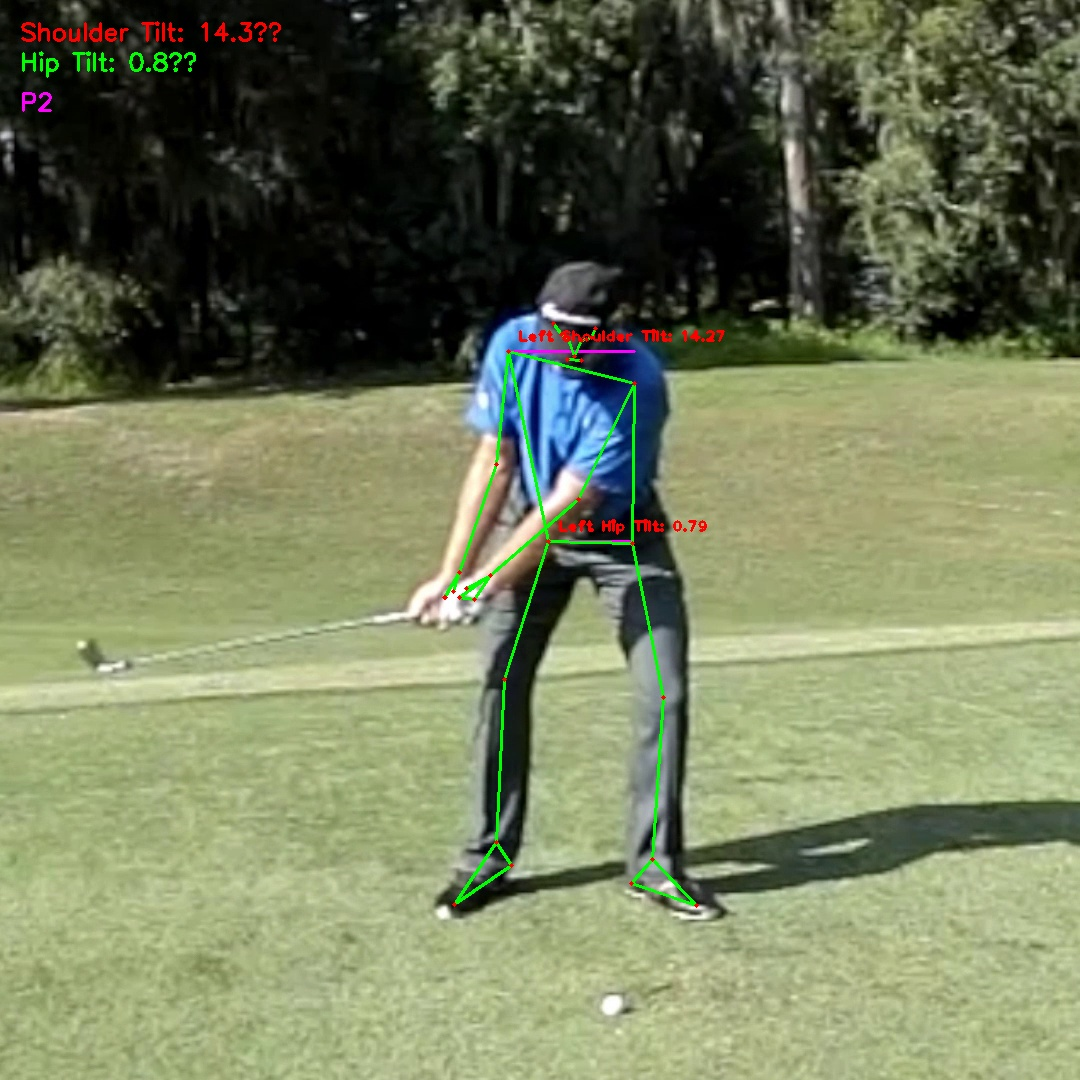
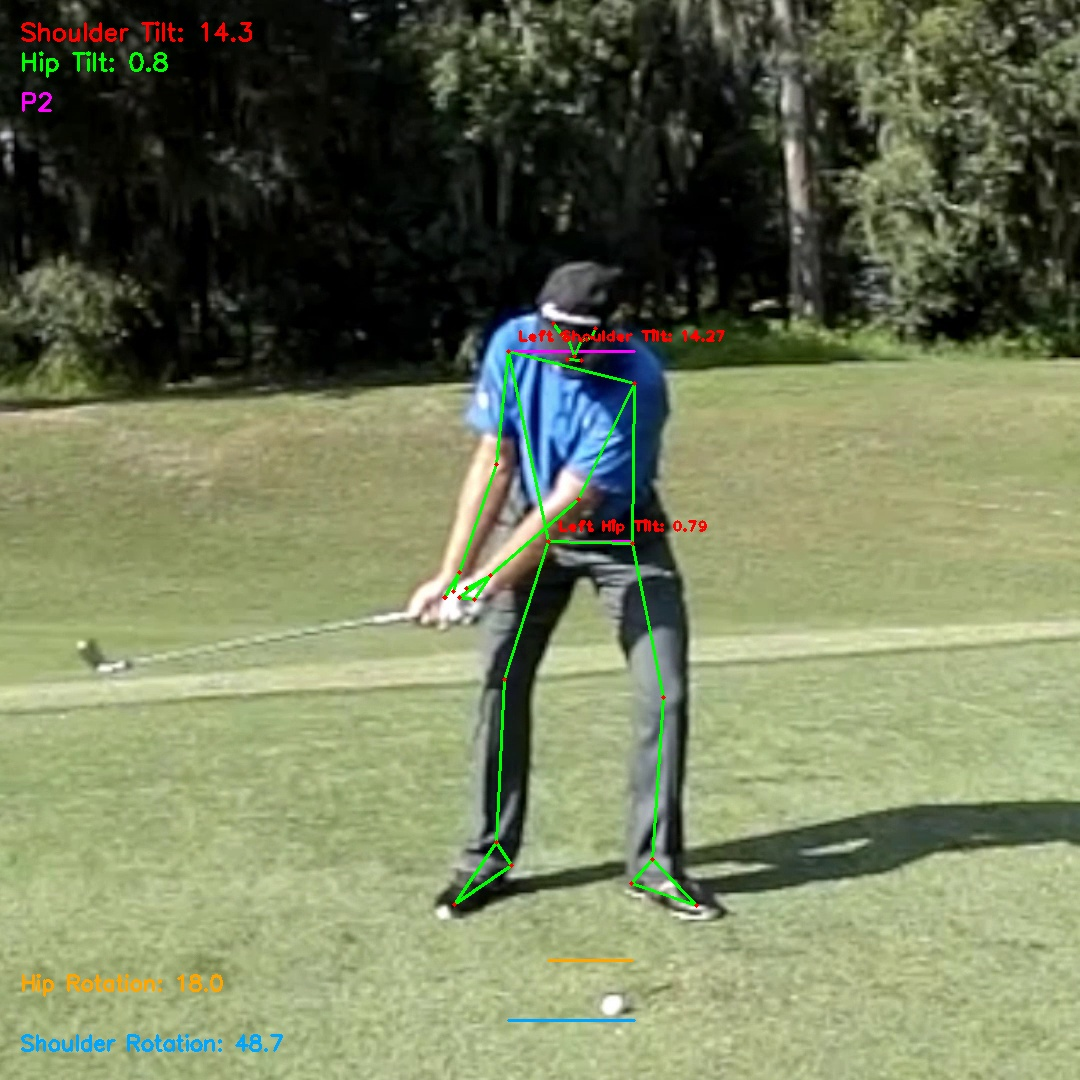
Add rotations

diff --git a/Computer_Vision/Mediapipe/BodyAngleOptimisation/pipeline.py b/Computer_Vision/Mediapipe/BodyAngleOptimisation/pipeline.py
@@ -9,33 +9,10 @@ import mediapipe as mp
 import pandas as pd
 from angle_utils import (
     calculate_and_draw_shoulder_tilt,
-    calculate_and_draw_hip_tilt
+    calculate_and_draw_hip_tilt,
+    calculate_and_draw_shoulder_rotation,
+    calculate_and_draw_hip_rotation
 )
-
-import numpy as np
-
-CSV_PATH = "FO/landmarks/FO_landmarks_best_frames.csv"
-UNNORMALISED_PATH = "FO/landmarks/FO_landmarks_unnormalised.csv"
-IMAGES_DIR = "FO/output/Grant_FO"
-OUT_CSV = "BodyAngleOptimisation/Grant_FO_unnormalized_with_angles.csv"
-OUT_IMG_DIR = "BodyAngleOptimisation/output_visuals"
-
-# ---------- SETUP ----------
-os.makedirs(OUT_IMG_DIR, exist_ok=True)
-mp_pose = mp.solutions.pose
-pose_draw = mp.solutions.drawing_utils
-
-# 1) Load meta only from best-frames CSV
-meta_cols = ["Frame_Name", "Person", "Camera_Angle", "Position", "Frame_Number"]
-df_meta = pd.read_csv(CSV_PATH, usecols=[c for c in meta_cols if c in pd.read_csv(CSV_PATH, nrows=0).columns])
-
-# 2) Load UNNORMALISED (pixel) coordinates
-df_unnorm = pd.read_csv(UNNORMALISED_PATH)
-
-# 3) Merge by Frame_Name, keep unnormalized coords
-df = pd.merge(df_meta, df_unnorm, on="Frame_Name", how="inner")
-df["shoulder_tilt_deg"] = np.nan
-df["hip_tilt_deg"] = np.nan
 
 # ---------- PROCESS ----------
 def calculate_rotation_angle(p1, p2):
@@ -49,10 +26,14 @@ def calculate_rotation_angle(p1, p2):
 def process_frame(row):
     frame_name = row["Frame_Name"]
     frame_path = os.path.join(IMAGES_DIR, frame_name)
+    frame_path_alt = os.path.join(IMAGES_DIR, row["Person"], frame_name)
     if not os.path.isfile(frame_path):
-        print(f"[WARN] Missing image: {frame_path}")
-        return row
-
+        if os.path.isfile(frame_path_alt):
+            frame_path = frame_path_alt
+        else:
+            print(f"[WARN] Missing image: {frame_path}")
+            return row
+    
     img = cv2.imread(frame_path)
     if img is None:
         print(f"[WARN] Failed to load {frame_path}")
@@ -77,7 +58,7 @@ def process_frame(row):
             return row
 
     # --- Compute angles ---
-    pose_class = row.get("Position", "P1")
+    pose_class = row.get("Position")
     annotated_img = img.copy()
 
     shoulder_tilt_deg = calculate_and_draw_shoulder_tilt(annotated_img, lm_list, pose_class)
@@ -85,6 +66,13 @@ def process_frame(row):
 
     row["shoulder_tilt_deg"] = shoulder_tilt_deg
     row["hip_tilt_deg"] = hip_tilt_deg
+
+        # --- ADDED: Shoulder and Hip Rotation ---
+    shoulder_rotation_deg = calculate_and_draw_shoulder_rotation(annotated_img, lm_list, pose_class)
+    hip_rotation_deg = calculate_and_draw_hip_rotation(annotated_img, lm_list, pose_class)
+    row["shoulder_rotation_deg"] = shoulder_rotation_deg
+    row["hip_rotation_deg"] = hip_rotation_deg
+        # --- END ADDED ---
 
     # --- Draw pose skeleton (optional; uses only landmark positions) ---
     for connection in mp_pose.POSE_CONNECTIONS:
@@ -104,23 +92,54 @@ def process_frame(row):
         )
 
     # --- Label angles ---
-    cv2.putText(annotated_img, f"Shoulder Tilt: {shoulder_tilt_deg:.1f}°",
+    cv2.putText(annotated_img, f"Shoulder Tilt: {shoulder_tilt_deg:.1f}",
                 (20, 40), cv2.FONT_HERSHEY_SIMPLEX, 0.8, (0, 0, 255), 2)
-    cv2.putText(annotated_img, f"Hip Tilt: {hip_tilt_deg:.1f}°",
+    cv2.putText(annotated_img, f"Hip Tilt: {hip_tilt_deg:.1f}",
                 (20, 70), cv2.FONT_HERSHEY_SIMPLEX, 0.8, (0, 255, 0), 2)
     cv2.putText(annotated_img, f"{pose_class}",
                 (20, 110), cv2.FONT_HERSHEY_SIMPLEX, 0.8, (255, 0, 255), 2)
 
     out_path = os.path.join(OUT_IMG_DIR, f"{os.path.splitext(frame_name)[0]}_angles.jpg")
     cv2.imwrite(out_path, annotated_img)
-    print(f"[OK] Saved: {out_path} | Shoulder={shoulder_tilt_deg:.2f}°, Hip={hip_tilt_deg:.2f}°")
+    print(f"[OK] Saved: {out_path} | ST={shoulder_tilt_deg:.2f}, HT={hip_tilt_deg:.2f}, SR={shoulder_rotation_deg}, HR={hip_rotation_deg}")
 
     return row
 
+# username = "Grant_"
+angles = ["FO"]
 
-updated_rows = [process_frame(row) for _, row in df.iterrows()]
-df_out = pd.DataFrame(updated_rows)
-df_out.to_csv(OUT_CSV, index=False)
+OUT_IMG_DIR = "FO_videos/output_visuals"
+os.makedirs(OUT_IMG_DIR, exist_ok=True)
+mp_pose = mp.solutions.pose
+pose_draw = mp.solutions.drawing_utils
 
-print(f"Annotated images saved to: {OUT_IMG_DIR}")
-print(f"CSV with angles saved to: {OUT_CSV}")
+for angle in angles:
+    # CSV_PATH = f"{angle}/landmarks/{angle}_landmarks_best_frames.csv"
+    # UNNORMALISED_PATH = f"{angle}/landmarks/{angle}_landmarks_unnormalised.csv"
+    # IMAGES_DIR = f"{angle}/output/{username}{angle}"
+    # OUT_CSV = f"BodyAngleOptimisation/{username}{angle}_unnormalized_with_angles.csv"
+    CSV_PATH = f"FO_videos/landmarks/{angle}_landmarks_best_frames.csv"
+    UNNORMALISED_PATH = f"FO_videos/landmarks/{angle}_landmarks_unnormalised.csv"
+    IMAGES_DIR = f"FO_videos/out"
+    OUT_CSV = f"FO_videos/landmarks_unnormalised_with_angles.csv"
+    
+
+    # 1) Load meta only from best-frames CSV
+    meta_cols = ["Frame_Name", "Person", "Camera_Angle", "Position", "Frame_Number"]
+    df_meta = pd.read_csv(CSV_PATH, usecols=[c for c in meta_cols if c in pd.read_csv(CSV_PATH, nrows=0).columns])
+
+    # 2) Load UNNORMALISED (pixel) coordinates
+    df_unnorm = pd.read_csv(UNNORMALISED_PATH)
+
+    # 3) Merge by Frame_Name, keep unnormalized coords
+    df = pd.merge(df_meta, df_unnorm, on="Frame_Name", how="inner")
+    df["shoulder_tilt_deg"] = np.nan
+    df["hip_tilt_deg"] = np.nan
+
+
+    updated_rows = [process_frame(row) for _, row in df.iterrows()]
+    df_out = pd.DataFrame(updated_rows)
+    df_out.to_csv(OUT_CSV, index=False)
+
+    print(f"Annotated images saved to: {OUT_IMG_DIR}")
+    print(f"CSV with angles saved to: {OUT_CSV}")

diff --git a/Computer_Vision/Mediapipe/angle_utils.py b/Computer_Vision/Mediapipe/angle_utils.py
@@ -1,6 +1,7 @@
 import cv2
 import numpy as np
 import mediapipe as mp
+from math import degrees, atan2
 
 def calculate_angle(a, b, c):
     """Calculates the angle between three points.
@@ -117,8 +118,54 @@ def calculate_and_draw_hip_tilt(img, lm_list, pose_class):
     
     return angle
 
+def calculate_and_draw_shoulder_rotation(img, lm_list, pose_class):
+    """Calculates and draws shoulder rotation (angle in x–z plane) using a reference line."""
+    # Get shoulder landmarks
+    left_shoulder = lm_list[mp.solutions.pose.PoseLandmark.LEFT_SHOULDER.value]
+    right_shoulder = lm_list[mp.solutions.pose.PoseLandmark.RIGHT_SHOULDER.value]
 
+    # Project to top-down (x–z) plane
+    L = (left_shoulder.x * img.shape[1], left_shoulder.z * img.shape[1])
+    R = (right_shoulder.x * img.shape[1], right_shoulder.z * img.shape[1])
 
+    # Create a reference horizontal line across x-axis in x–z plane
+    ref = (left_shoulder.x * img.shape[1], right_shoulder.z * img.shape[1])
 
+    # Compute the angle between actual shoulder line and reference
+    angle = calculate_angle(L, R, ref)
 
+    # Draw a simple visual guide near bottom of frame
+    p1 = (int(L[0]), img.shape[0] - 60)
+    p2 = (int(R[0]), img.shape[0] - 60)
+    cv2.line(img, p1, p2, (255, 165, 0), 2)
+    cv2.putText(img, f"Shoulder Rotation: {angle:.1f}",
+                (20, img.shape[0] - 30), cv2.FONT_HERSHEY_SIMPLEX,
+                0.7, (255, 165, 0), 2)
 
+    return angle
+
+def calculate_and_draw_hip_rotation(img, lm_list, pose_class):
+    """Calculates and draws hip rotation (angle in x–z plane) using a reference line."""
+    # Get hip landmarks
+    left_hip = lm_list[mp.solutions.pose.PoseLandmark.LEFT_HIP.value]
+    right_hip = lm_list[mp.solutions.pose.PoseLandmark.RIGHT_HIP.value]
+
+    # Project to top-down (x–z) plane
+    L = (left_hip.x * img.shape[1], left_hip.z * img.shape[1])
+    R = (right_hip.x * img.shape[1], right_hip.z * img.shape[1])
+
+    # Create reference horizontal line across x-axis in x–z plane
+    ref = (left_hip.x * img.shape[1], right_hip.z * img.shape[1])
+
+    # Compute the angle between actual hip line and reference
+    angle = calculate_angle(L, R, ref)
+
+    # Draw a simple visual guide near bottom of frame
+    p1 = (int(L[0]), img.shape[0] - 120)
+    p2 = (int(R[0]), img.shape[0] - 120)
+    cv2.line(img, p1, p2, (0, 165, 255), 2)
+    cv2.putText(img, f"Hip Rotation: {angle:.1f}",
+                (20, img.shape[0] - 90), cv2.FONT_HERSHEY_SIMPLEX,
+                0.7, (0, 165, 255), 2)
+
+    return angle
